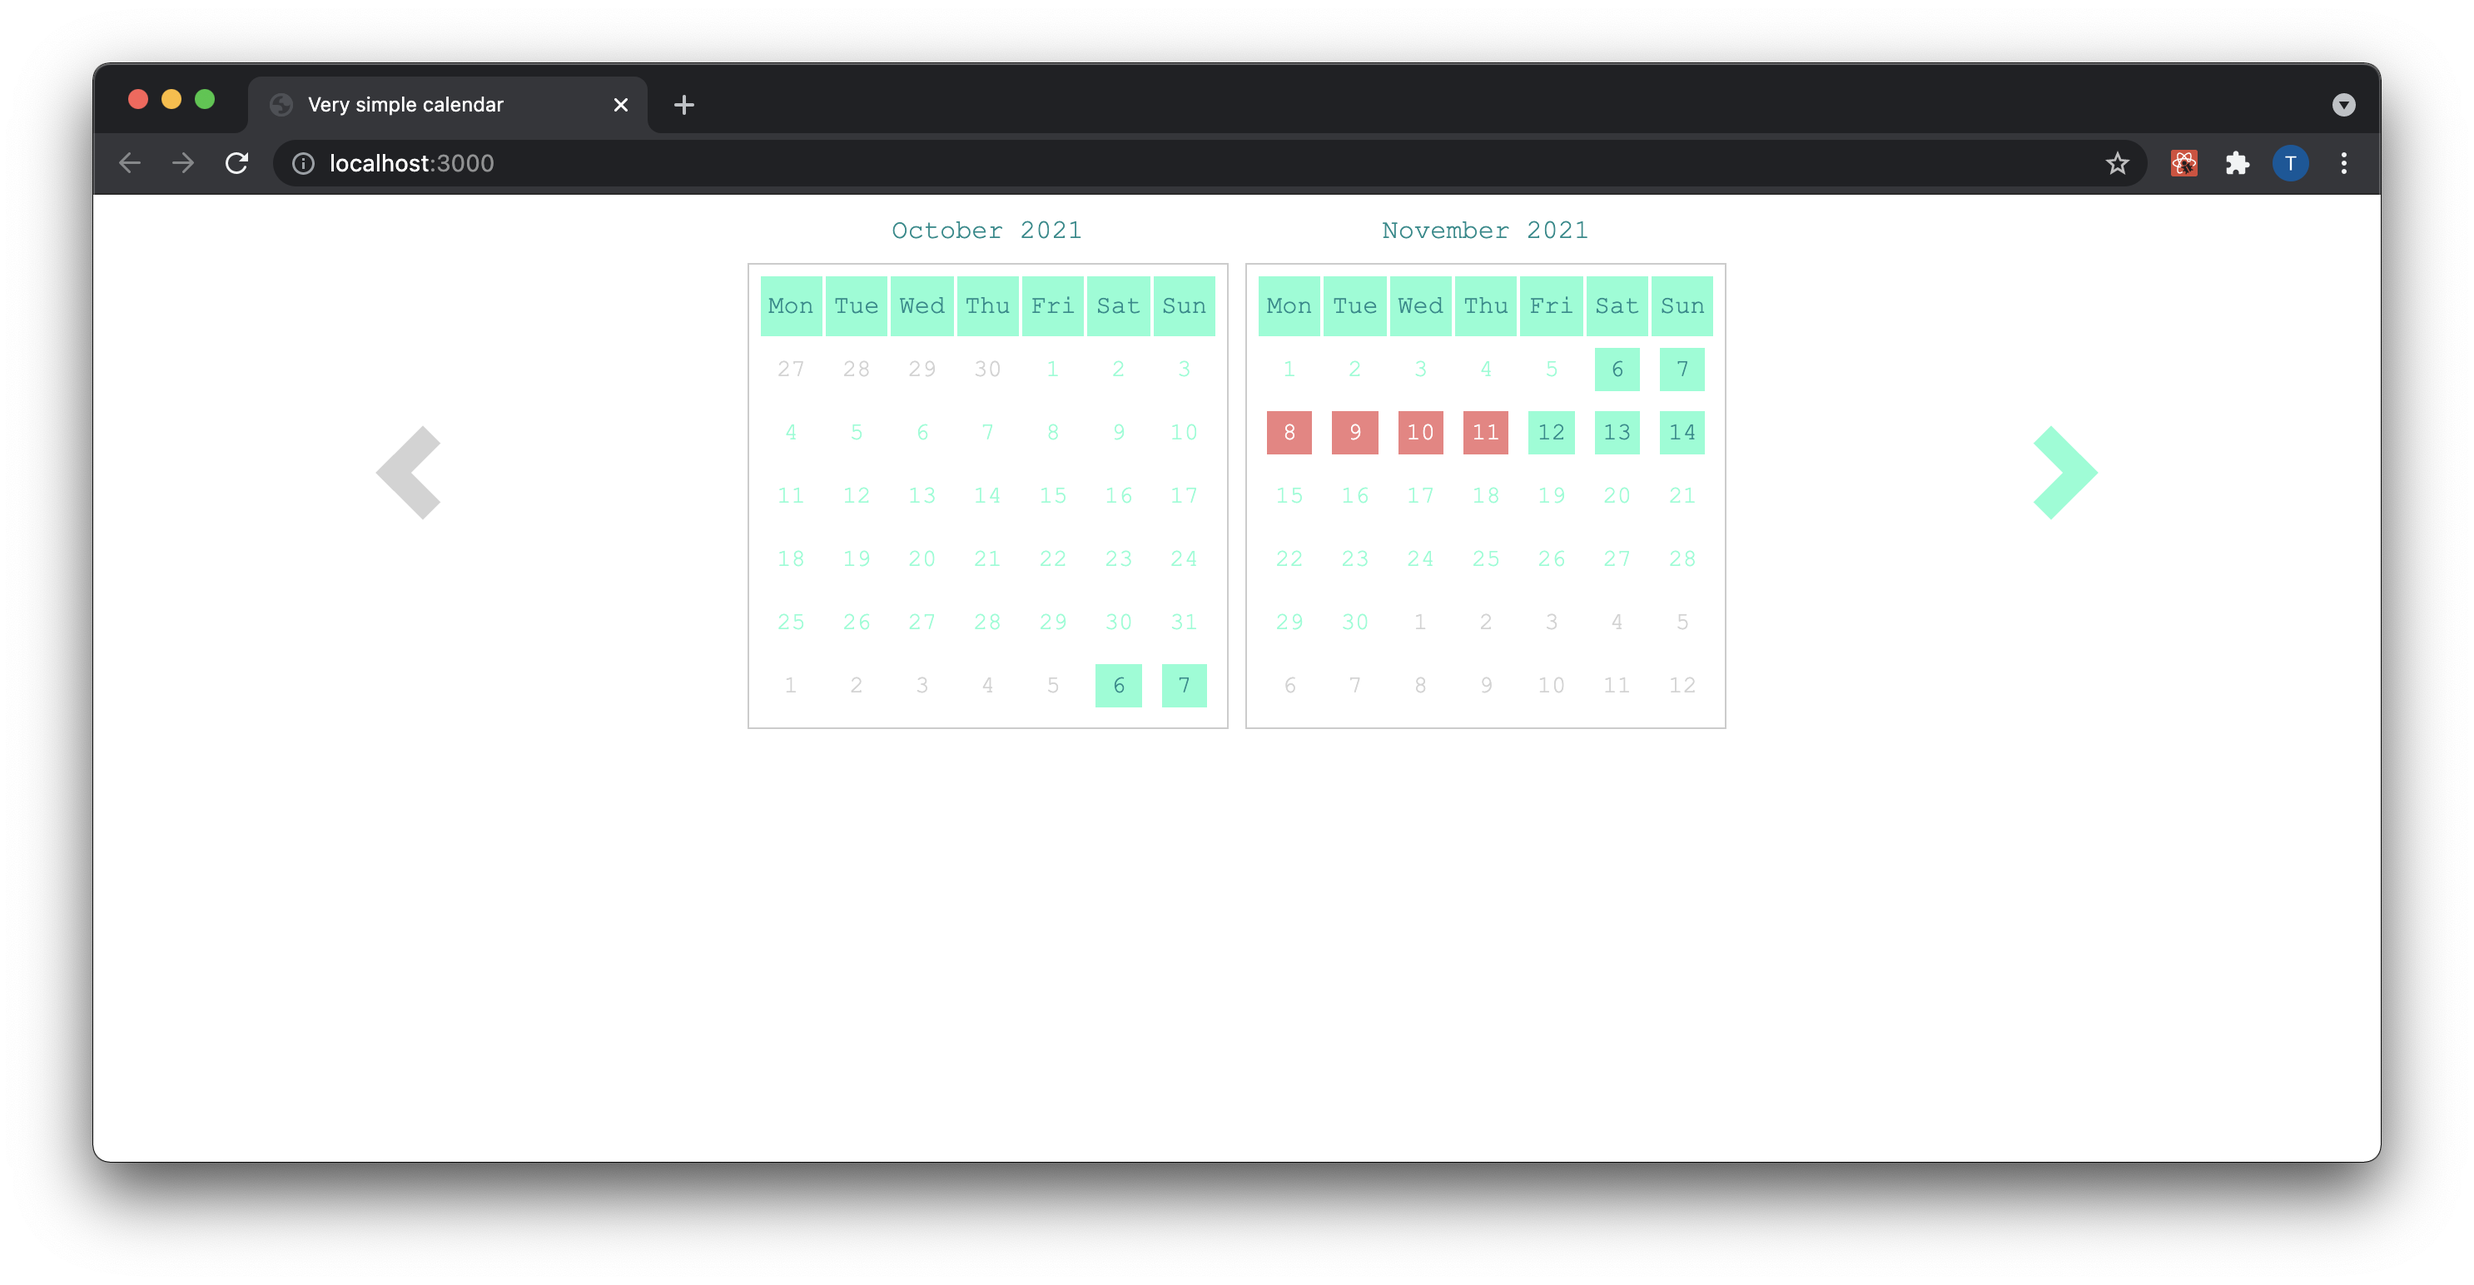
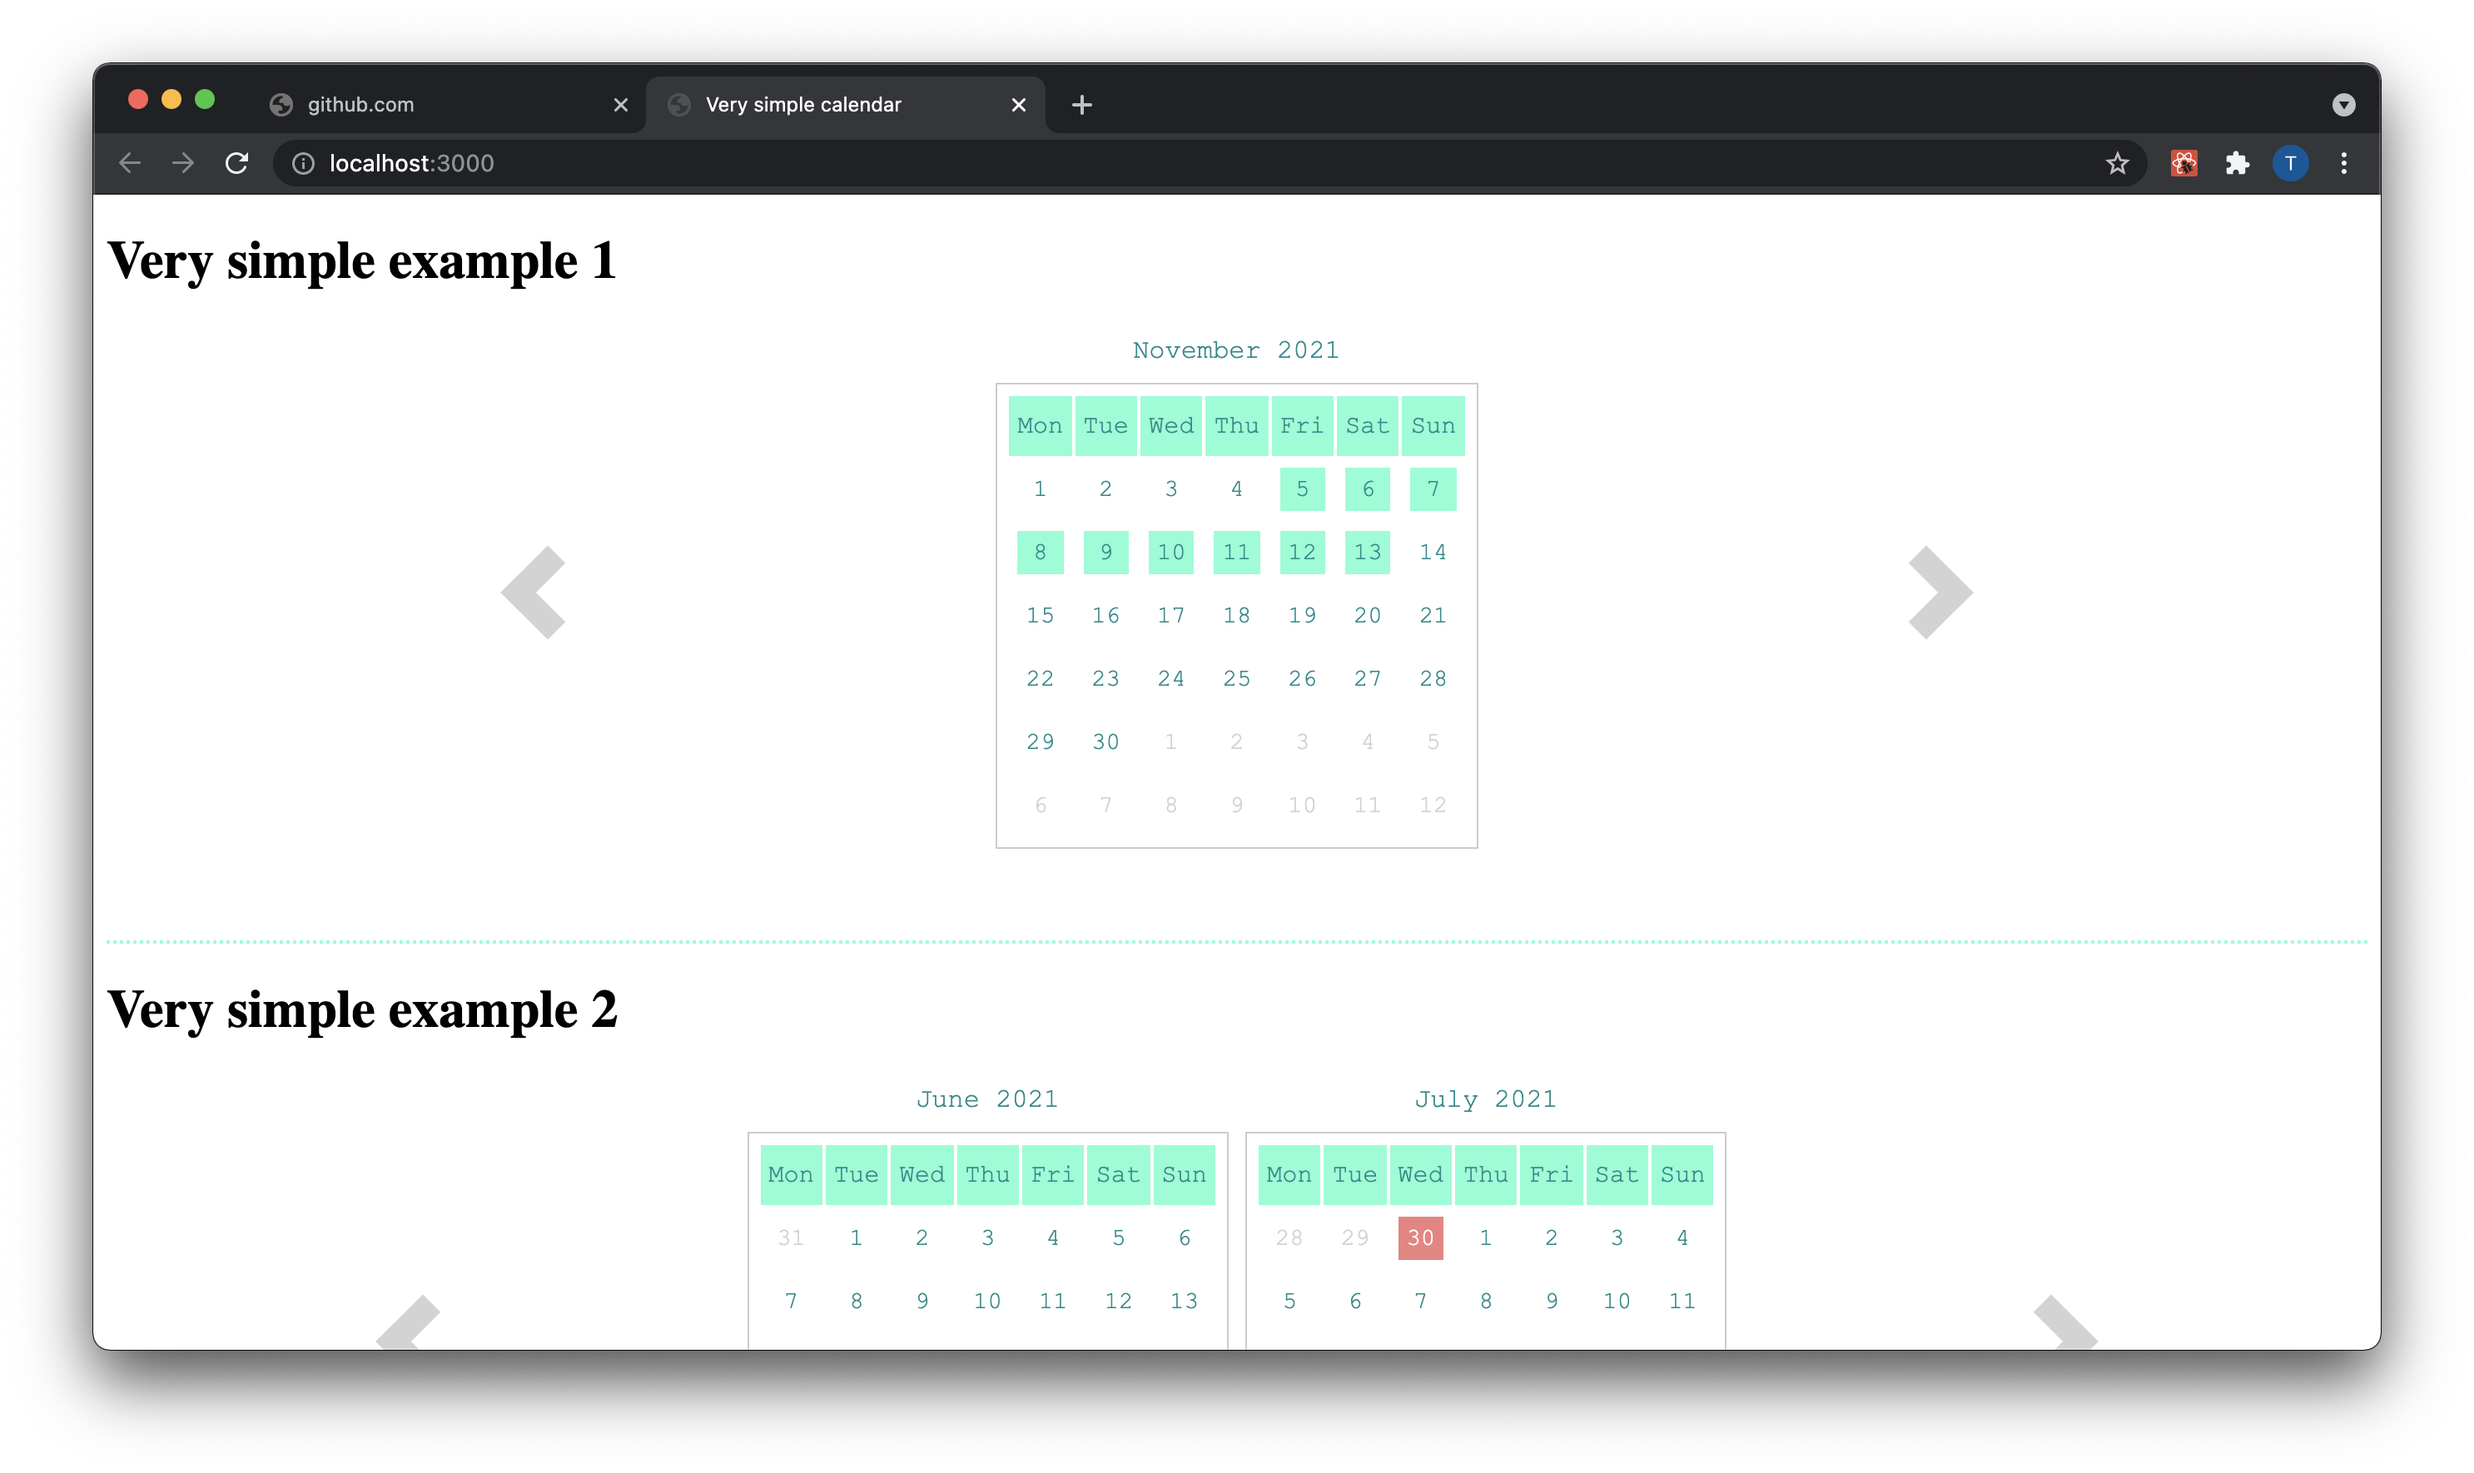
clean up, two basic functions of use

diff --git a/src/components/Calendar.tsx b/src/components/Calendar.tsx
@@ -1,36 +1,19 @@
 import React, { useState } from "react";
-import { isDateInRange, isInRange } from "../logic/helper";
-import { CalendarItemData, CalendarRowData, CalendarData, CalendarHeaderData } from "../types";
+import { isDateInRange } from "../logic/helper";
+import { CalendarDayProps, CalendarData, CalendarHeaderData, CalendarDayPropsExtension } from "../types";
 
 import '../scss/styles.scss';
-
-export const CalendarDay = (props: CalendarItemData) => {
-
-    const className = props.active ? 'calendar calendar-item calendar-item-active' : 'calendar calendar-item calendar-item-inactive';
-    const classNameBrushed = props.occupiedState.className;
-    return <td title={props.occupiedState.tooltip}>
-        <div className={`${className} ${classNameBrushed}`}>
-            {props.day.getDate()}
-        </div>
-    </td>;
-}
-
-export const CalendarWeek = (props: CalendarRowData) => {
-
-    return <tr>
-        {props.row.map(item => <CalendarDay key={item.day.getTime()} {...item} />)}
-    </tr>;
-}
+import { CalendarWeek } from "./CalendarWeek";
 
 export const CalendarHeader = (props: CalendarHeaderData) => {
 
-    // const headerData = ['Mo', 'Di', 'Mi', 'Do', 'Fr', 'Sa', 'So'];
     const headerData = props.weekDayNames ? props.weekDayNames : defaultWeekDayNames();
     const header = headerData.map(item => <td key={item} className='calendar-header'>{item}</td>);
 
     return <thead><tr>{header}</tr></thead>;
 }
 
+const dayInMilliSeconds = 1000 * 60 * 60 * 24;
 export const CalendarItem = (props: CalendarData) => {
 
     var monthNames = props.monthNames ? props.monthNames : defaultMonthNames();
@@ -42,24 +25,22 @@ export const CalendarItem = (props: CalendarData) => {
     const firstDayOfMonth = new Date(year, month, 1, 12);
     let dayOfWeek = firstDayOfMonth.getDay() == 0 ? 6 : firstDayOfMonth.getDay() - 1;
 
-    let calDays: Array<CalendarItemData> = [];
+    let calDays: Array<CalendarDayProps> = [];
     const numberCalCells = 42;
     let weeks: JSX.Element[] = [];
 
     const startOffset = -dayOfWeek;
-    const dayInMilliSeconds = 1000 * 60 * 60 * 24;
 
     for (let i = 0; i < numberCalCells; i++) {
 
         const tmpDate = new Date(firstDayOfMonth.getTime() + ((i + startOffset) * dayInMilliSeconds));
-        const occupiedCountsPerDay = props.events.map(y => isDateInRange(y, new Date(year, month, i - dayOfWeek + 1))).reduce((a, b) => (a ? 1 : 0) + (b ? 1 : 0), 0);
+        const eventsOfDay = props.events.filter(event => isDateInRange(event, tmpDate));
 
-        const filteredStates = props.occupiedStates.filter(item => isInRange(item.range, occupiedCountsPerDay));
-        const occupiedStateItem = filteredStates.length === 0 ? props.occupiedStates[occupiedCountsPerDay] : filteredStates[0];
-        let calItem: CalendarItemData = {
+        let calItem: CalendarDayProps = {
             day: tmpDate,
-            active: tmpDate.getMonth() === props.startDate.getMonth(),
-            occupiedState: occupiedStateItem
+            eventsOfDay: eventsOfDay,
+            eventConditions: props.eventConditions,
+            active: tmpDate.getMonth() === props.startDate.getMonth()
         };
 
         calDays.push(calItem);

diff --git a/src/components/App.tsx b/src/components/App.tsx
@@ -1,8 +1,46 @@
 import React from "react";
 
+import { Calendar } from "./Calendar";
+import { CalendarEvent, EventConditionItem } from "../types";
+
+function GetCalendarDates(): CalendarEvent[] {
+    return [
+        { startDate: new Date("2021-11-05"), endDate: new Date("2021-11-11") },
+        { startDate: new Date("2021-11-05"), endDate: new Date("2021-11-07") },
+        { startDate: new Date("2021-11-07"), endDate: new Date("2021-11-14") },
+        { startDate: new Date("2021-06-30"), description: "Private" },
+        { startDate: new Date("2021-06-30"), description: "Private 2" }
+    ]
+};
+
+let events: CalendarEvent[] = GetCalendarDates();
+
+const eventConditions: EventConditionItem[] = [
+    {
+        range: { start: 0, end: 0 },
+        className: "events-0",
+        description: "nothing to do"
+    },
+    {
+        range: { start: 1, end: 1 },
+        className: "events-1",
+        description: "busy"
+    },
+    {
+        range: { start: 2, end: 3 },
+        className: "events-2",
+        description: "very busy"
+    }];
+
+
 export const App = () => {
     return <div>
-        <h1>Example heading <span className="badge bg-secondary">New</span></h1>
-        Hello World
+        <h1>Very simple example 1</h1>
+        <Calendar events={events} />
+
+        <div className="example-seperator" />
+
+        <h1>Very simple example 2</h1>
+        <Calendar events={events} eventConditions={eventConditions} numberCalendarsToShow={2} />
     </div>
 }

diff --git a/src/components/CalendarDay.tsx b/src/components/CalendarDay.tsx
@@ -1,0 +1,30 @@
+import React from "react";
+import { isInRange } from "../logic/helper";
+import { CalendarDayProps } from "../types";
+
+export const CalendarDay = (props: CalendarDayProps) => {
+
+    const occupiedCountsPerDay = props.eventsOfDay.length;
+
+    let description = props.eventsOfDay.filter(event => event.description).map(event => event.description).join("\n");
+    let classNameBrushed = "";
+
+    if (props.eventConditions) {
+        const filteredStates = props.eventConditions.filter(item => isInRange(item.range, occupiedCountsPerDay));
+        const eventCondition = filteredStates.length === 0 ? props.eventConditions[occupiedCountsPerDay] : filteredStates[0];
+
+        if (eventCondition.description) {
+            description = eventCondition.description;
+        }
+        classNameBrushed = eventCondition.className;
+    }
+
+    const className = props.active ? 'calendar calendar-item calendar-item-active' : 'calendar calendar-item calendar-item-inactive';
+    const classNameBusy = occupiedCountsPerDay > 0 ? "calendar-item-busy" : "";
+
+    return <td title={description}>
+        <div className={`${className} ${classNameBusy} ${classNameBrushed}`}>
+            {props.day.getDate()}
+        </div>
+    </td>;
+};

diff --git a/src/index.tsx b/src/index.tsx
@@ -1,38 +1,9 @@
 import * as React from "react";
 import * as ReactDOM from "react-dom";
+import { App } from "./components/App";
 
-import { Calendar } from "./components/Calendar";
-import { CalendarEvent, OccupiedStateItem as OccupiedDataItem } from "./types";
-
-function GetCalendarDates(): CalendarEvent[] {
-    return [
-        { startDate: new Date("2021-11-05"), endDate: new Date("2021-11-11") },
-        { startDate: new Date("2021-11-05"), endDate: new Date("2021-11-07") },
-        { startDate: new Date("2021-11-07"), endDate: new Date("2021-11-14") },
-        { startDate: new Date("2021-06-30"), description: "Private" }
-    ]
-};
-
-let dates: CalendarEvent[] = GetCalendarDates();
-
-const occupiedStates: OccupiedDataItem[] = [
-    {
-        range: { start: 0, end: 0 },
-        className: "events-0",
-        tooltip: "nothing to do"
-    },
-    {
-        range: { start: 1, end: 1 },
-        className: "events-1",
-        tooltip: "busy"
-    },
-    {
-        range: { start: 2, end: 3 },
-        className: "events-2",
-        tooltip: "very busy"
-    }];
 
 ReactDOM.render(
-    <Calendar events={dates} occupiedStates={occupiedStates} numberCalendarsToShow={2} />,
+    <App />,
     document.getElementById("root")
 );

diff --git a/src/types/index.ts b/src/types/index.ts
@@ -10,7 +10,7 @@ export interface CalendarEvent extends DateRange {
 export interface CalendarData extends CalendarHeaderData {
     startDate?: Date;
     events: CalendarEvent[];
-    occupiedStates: OccupiedStateItem[];
+    eventConditions?: EventConditionItem[];
     monthNames?: string[];
     numberCalendarsToShow?: number;
 }
@@ -20,16 +20,20 @@ export interface NumberRange {
     end: number;
 }
 
-export interface OccupiedStateItem {
-    range: NumberRange;
-    tooltip?: string;
+export interface CalendarDayPropsExtension {
+    description?: string;
     className: string;
 }
 
-export interface CalendarItemData {
+export interface EventConditionItem extends CalendarDayPropsExtension {
+    range: NumberRange;
+}
+
+export interface CalendarDayProps {
     day: Date;
     active: boolean;
-    occupiedState: OccupiedStateItem;
+    eventsOfDay: CalendarEvent[];
+    eventConditions?: EventConditionItem[];
 }
 
 export interface CalendarHeaderData {
@@ -37,5 +41,5 @@ export interface CalendarHeaderData {
 }
 
 export interface CalendarRowData {
-    row: CalendarItemData[];
+    row: CalendarDayProps[];
 }

diff --git a/src/scss/_calendar.scss b/src/scss/_calendar.scss
@@ -10,7 +10,7 @@
 	.title {
 		text-align: center;
 		padding: 5px;
-		color: darkcyan;
+		color: $color-secondary;
 	}
 
 	.btn {
@@ -26,7 +26,7 @@
 	
 		&:hover { 
 			cursor: pointer;
-			border-color: $color-active;
+			border-color: $color-primary;
 		 }
 	}
 	
@@ -70,11 +70,11 @@
 	}
 
 	.calendar-header {
-		background: $color-active;
+		background: $color-primary;
 		border-bottom: none;
 		text-align: center;
 		border: 0px !important;
-		color: darkcyan;
+		color: $color-secondary;
 	}
 
 	.calendar-item {
@@ -84,11 +84,16 @@
 	}
 
 	.calendar-item-active {
-		color: $color-active;
+    	color: $color-secondary;
 	}
 	
 	.calendar-item-inactive {
 		color: $color-inactive;
+	}
+
+	.calendar-item-busy {
+		background-color: $color-primary;
+    	color: $color-secondary;
 	}
 }
 

diff --git a/src/scss/styles.scss b/src/scss/styles.scss
@@ -1,6 +1,7 @@
 // @import "~bootstrap/scss/bootstrap";
 // Write your custom styles here
 
+@import './colors';
 @import './calendar';
 
 .events-0 {
@@ -8,11 +9,16 @@
 }
 
 .events-1 {
-    background-color: $color-active;
-    color: darkcyan !important;
+    background-color: $color-primary !important;
+    color: $color-secondary !important;
 }
 
 .events-2 {
-    background-color: lightcoral;
-    color: white !important;
+    background-color: lightcoral !important;
+    color: $color-white !important;
+}
+
+.example-seperator {
+    border-bottom: dotted 2px $color-primary;
+    padding-bottom: 50px;
 }

diff --git a/webpack.common.js b/webpack.common.js
@@ -1,12 +1,3 @@
-const HtmlWebPackPlugin = require("html-webpack-plugin");
-const CopyWebpackPlugin = require('copy-webpack-plugin');
-const path = require('path');
-
-const htmlPlugin = new HtmlWebPackPlugin({
-    template: "./src/index.html",
-    filename: "./index.html",
-    // favicon: "./src/images/favicon.ico"
-});
 
 module.exports = {
 
@@ -59,11 +50,5 @@ module.exports = {
                 }]
             },
         ]
-    },
-    plugins: [
-        htmlPlugin,
-        new CopyWebpackPlugin([
-            { from: './src/i18n', to: './i18n' }
-        ])
-    ]
+    }
 };

diff --git a/webpack.dev.js b/webpack.dev.js
@@ -1,7 +1,15 @@
 const merge = require('webpack-merge');
 const common = require('./webpack.common.js');
+const HtmlWebPackPlugin = require("html-webpack-plugin");
+const path = require('path');
 
 const basepath = "/";
+
+const htmlPlugin = new HtmlWebPackPlugin({
+    template: "./src/index.html",
+    filename: "./index.html",
+    // favicon: "./src/images/favicon.ico"
+});
 
 module.exports = merge(common, {
 
@@ -27,5 +35,8 @@ module.exports = merge(common, {
                 ]
             }
         ]
-    }
+    },
+    plugins: [
+        htmlPlugin
+    ]
 });

diff --git a/src/components/CalendarWeek.tsx b/src/components/CalendarWeek.tsx
@@ -1,0 +1,10 @@
+import React from "react";
+import { CalendarRowData } from "../types";
+import { CalendarDay } from "./CalendarDay";
+
+export const CalendarWeek = (props: CalendarRowData) => {
+
+    return <tr>
+        {props.row.map(item => <CalendarDay key={item.day.getTime()} {...item} />)}
+    </tr>;
+};

diff --git a/src/scss/_colors.scss b/src/scss/_colors.scss
@@ -1,3 +1,4 @@
-$color-active: aquamarine;
+$color-primary: aquamarine;
+$color-secondary: darkcyan;
 $color-inactive: lightgray;
 $color-white: white;
